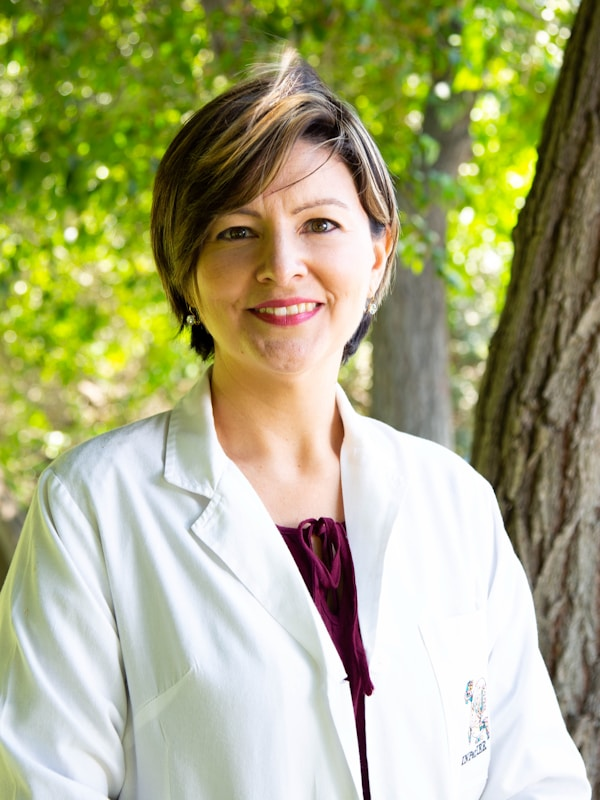
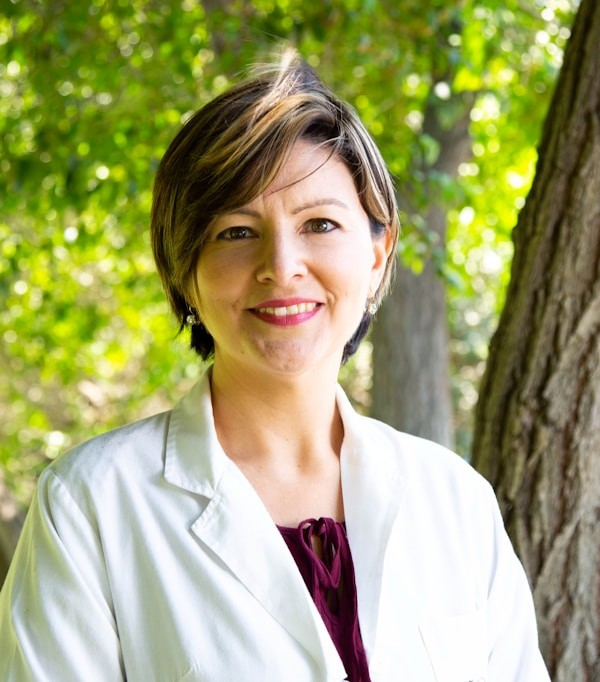
image added

diff --git a/client/src/pages/Home.js b/client/src/pages/Home.js
@@ -4,7 +4,7 @@ import ReviewsCarousel from '../components/ReviewsCarousel';
 import DoctorCard from '../components/DoctorCard';
 import { getAllDoctors } from '../api/doctorAPI';
 import { AuthContext } from '../context/AuthContext';
-import { ArrowDown, Stethoscope, Activity, Heart, MessageCircle, Calendar, Shield } from 'lucide-react';
+import { ArrowDown, Stethoscope, Activity, Heart, MessageCircle, Calendar, Shield, FileText } from 'lucide-react';
 import useScrollAnimation from '../hooks/useScrollAnimation';
 
 
@@ -20,32 +20,44 @@ const Home = () => {
 
   const heroDoctors = [
     {
-      image: '/images/doctor-hero.jpg',
-      name: 'Dr. Sarah Johnson',
+      image: '/images/Doctor1.jpg',
+      name: 'Dr. Arman Aly',
       specialty: 'Cardiologist',
       patients: '1000+'
     },
     {
-      image: '/images/default-avtar.jpg',
-      name: 'Dr. Rajesh Kumar',
+      image: '/images/Doctor2.jpg',
+      name: 'Dr. Rasmika Nandani',
       specialty: 'General Physician',
       patients: '850+'
     },
     {
-      image: '/images/doctor-hero.jpg',
+      image: '/images/Doctor3.jpeg',
       name: 'Dr. Priya Sharma',
       specialty: 'Pediatrician',
       patients: '1200+'
     },
     {
-      image: '/images/default-avtar.jpg',
-      name: 'Dr. Michael Chen',
+      image: '/images/Doctor4.jpg',
+      name: 'Dr. Ashish Gajjar',
       specialty: 'Dermatologist',
       patients: '950+'
     },
     {
-      image: '/images/doctor-hero.jpg',
-      name: 'Dr. Anita Desai',
+      image: '/images/Doctor5.jpg',
+      name: 'Dr. Amrita Patel',
+      specialty: 'Neurologist',
+      patients: '750+'
+    },
+    {
+      image: '/images/Doctor6.jpg',
+      name: 'Dr. Rajesh Rao',
+      specialty: 'Orthopedic Surgeon',
+      patients: '650+'
+    },
+    {
+      image: '/images/Doctor7.jpg',
+      name: 'Dr. Vinay Mehta',
       specialty: 'Gynecologist',
       patients: '1100+'
     }
@@ -151,7 +163,7 @@ const Home = () => {
                     <img 
                       src={heroDoctors[currentDoctorIndex].image}
                       alt={heroDoctors[currentDoctorIndex].name}
-                      className="w-full h-full object-cover"
+                      className="w-full h-full object-cover object-center scale-110"
                       onError={(e) => {
                         e.target.src = '/images/default-avtar.jpg';
                       }}
@@ -200,13 +212,27 @@ const Home = () => {
         </div>
 
         {/* Decorative Elements */}
-        <div className="absolute bottom-10 left-1/2 transform -translate-x-1/2 animate-bounce hidden sm:block">
+        <button 
+          onClick={() => {
+            const section = document.getElementById('ai-tools-section');
+            if (section) {
+              section.scrollIntoView({ 
+                behavior: 'smooth',
+                block: 'start'
+              });
+            } else {
+              window.scrollBy({ top: window.innerHeight * 0.8, behavior: 'smooth' });
+            }
+          }}
+          className="absolute bottom-10 left-1/2 transform -translate-x-1/2 animate-bounce hidden sm:block cursor-pointer hover:scale-110 transition-transform bg-transparent border-none"
+          aria-label="Scroll to content"
+        >
           <ArrowDown className="w-5 h-5 md:w-6 md:h-6 text-teal-600" />
-        </div>
+        </button>
       </section>
 
       {/* AI Tools Section */}
-      <section ref={aiToolsRef} className="py-12 md:py-16 bg-gradient-to-br from-teal-50 via-white to-emerald-50 relative overflow-hidden">
+      <section id="ai-tools-section" ref={aiToolsRef} className="py-12 md:py-16 bg-gradient-to-br from-teal-50 via-white to-emerald-50 relative overflow-hidden">
         {/* Floating Elements */}
         <div className="absolute top-20 left-10 w-20 h-20 bg-teal-200/30 rounded-full animate-float"></div>
         <div className="absolute top-40 right-20 w-16 h-16 bg-emerald-200/30 rounded-full animate-float" style={{ animationDelay: '1s' }}></div>
@@ -272,6 +298,24 @@ const Home = () => {
                 >
                   <span>Start Voice Call</span>
                   <Activity className="w-3 h-3 sm:w-4 sm:h-4" />
+                </button>
+              </div>
+            </div>
+
+            {/* Report Analyzer Card */}
+            <div className={`bg-white rounded-lg shadow-md hover:shadow-xl transition-all duration-300 p-4 sm:p-6 flex flex-col md:flex-row items-center md:items-start gap-3 md:gap-4 hover-lift scroll-animate-right stagger-4 ${aiToolsVisible ? 'visible' : ''}`}>
+              <div className="bg-purple-100 rounded-full p-3 md:p-4 flex-shrink-0 animate-pulse-slow">
+                <FileText className="w-6 h-6 sm:w-8 sm:h-8 text-purple-600" />
+              </div>
+              <div className="flex-grow text-center md:text-left">
+                <h3 className="text-lg sm:text-xl font-semibold text-health-text-h mb-2">AI Report Analyzer</h3>
+                <p className="text-sm sm:text-base text-health-text-p mb-3 md:mb-4">Upload your medical reports and get instant AI-powered analysis with easy-to-understand insights.</p>
+                <button
+                  onClick={() => navigate('/login')}
+                  className="bg-purple-600 text-white px-4 sm:px-6 py-2 rounded-full hover:bg-purple-700 transition-all duration-300 font-medium flex items-center gap-2 mx-auto md:mx-0 text-sm sm:text-base transform hover:scale-105"
+                >
+                  <span>Analyze Report</span>
+                  <FileText className="w-3 h-3 sm:w-4 sm:h-4" />
                 </button>
               </div>
             </div>
